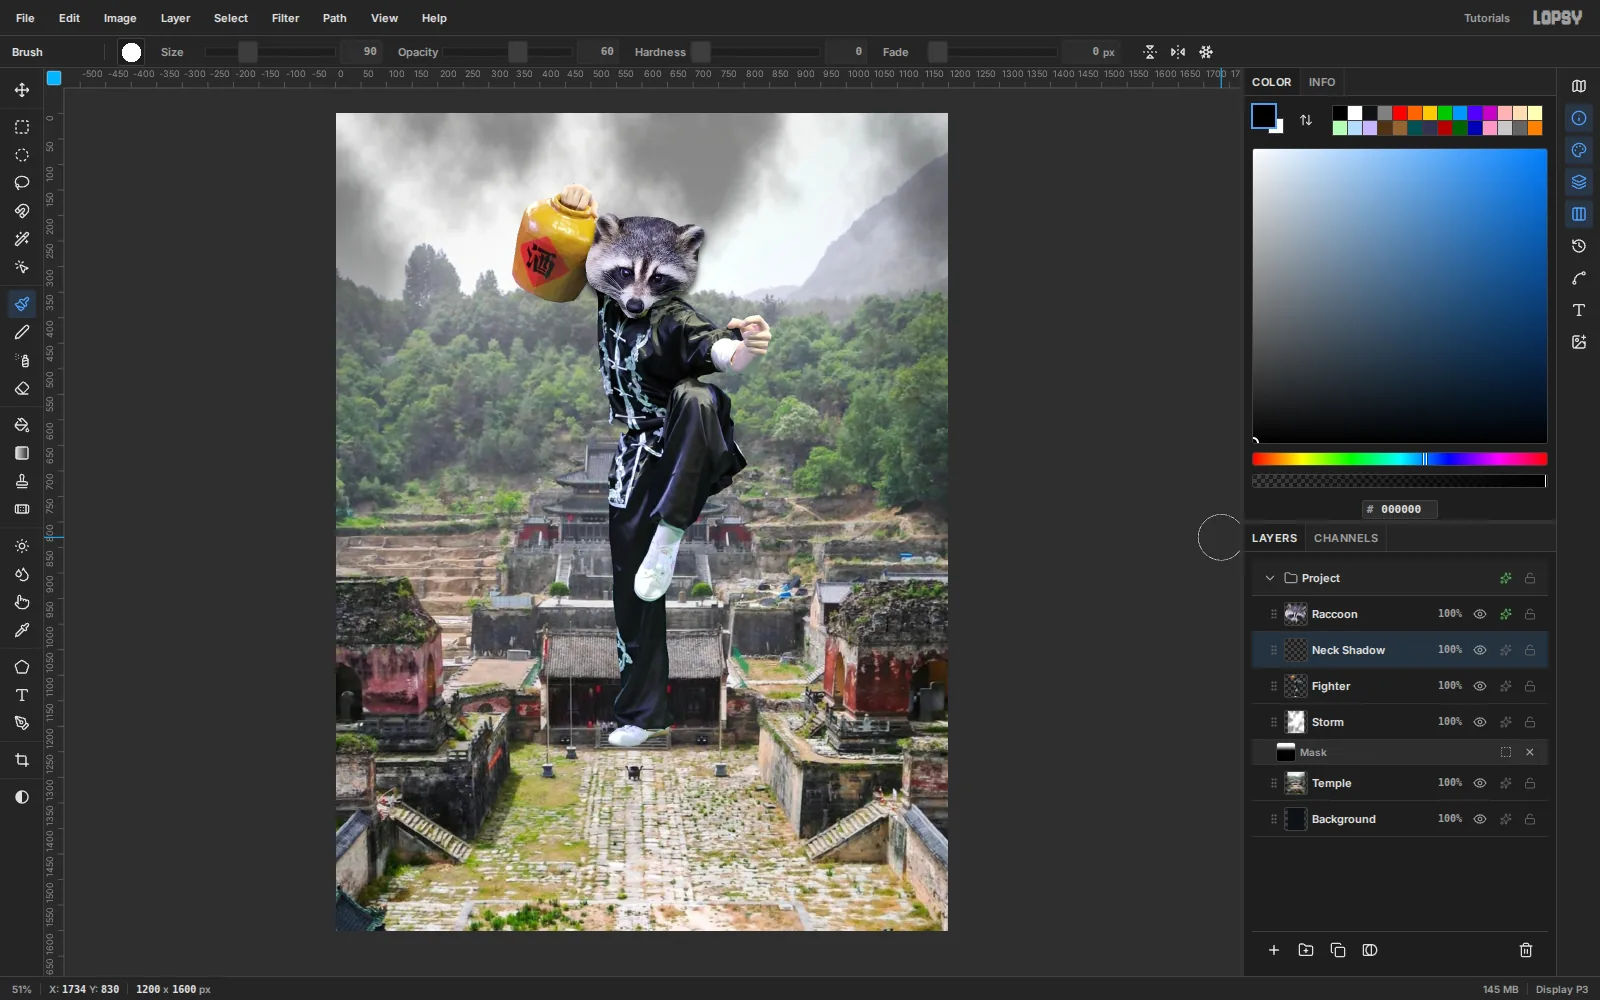
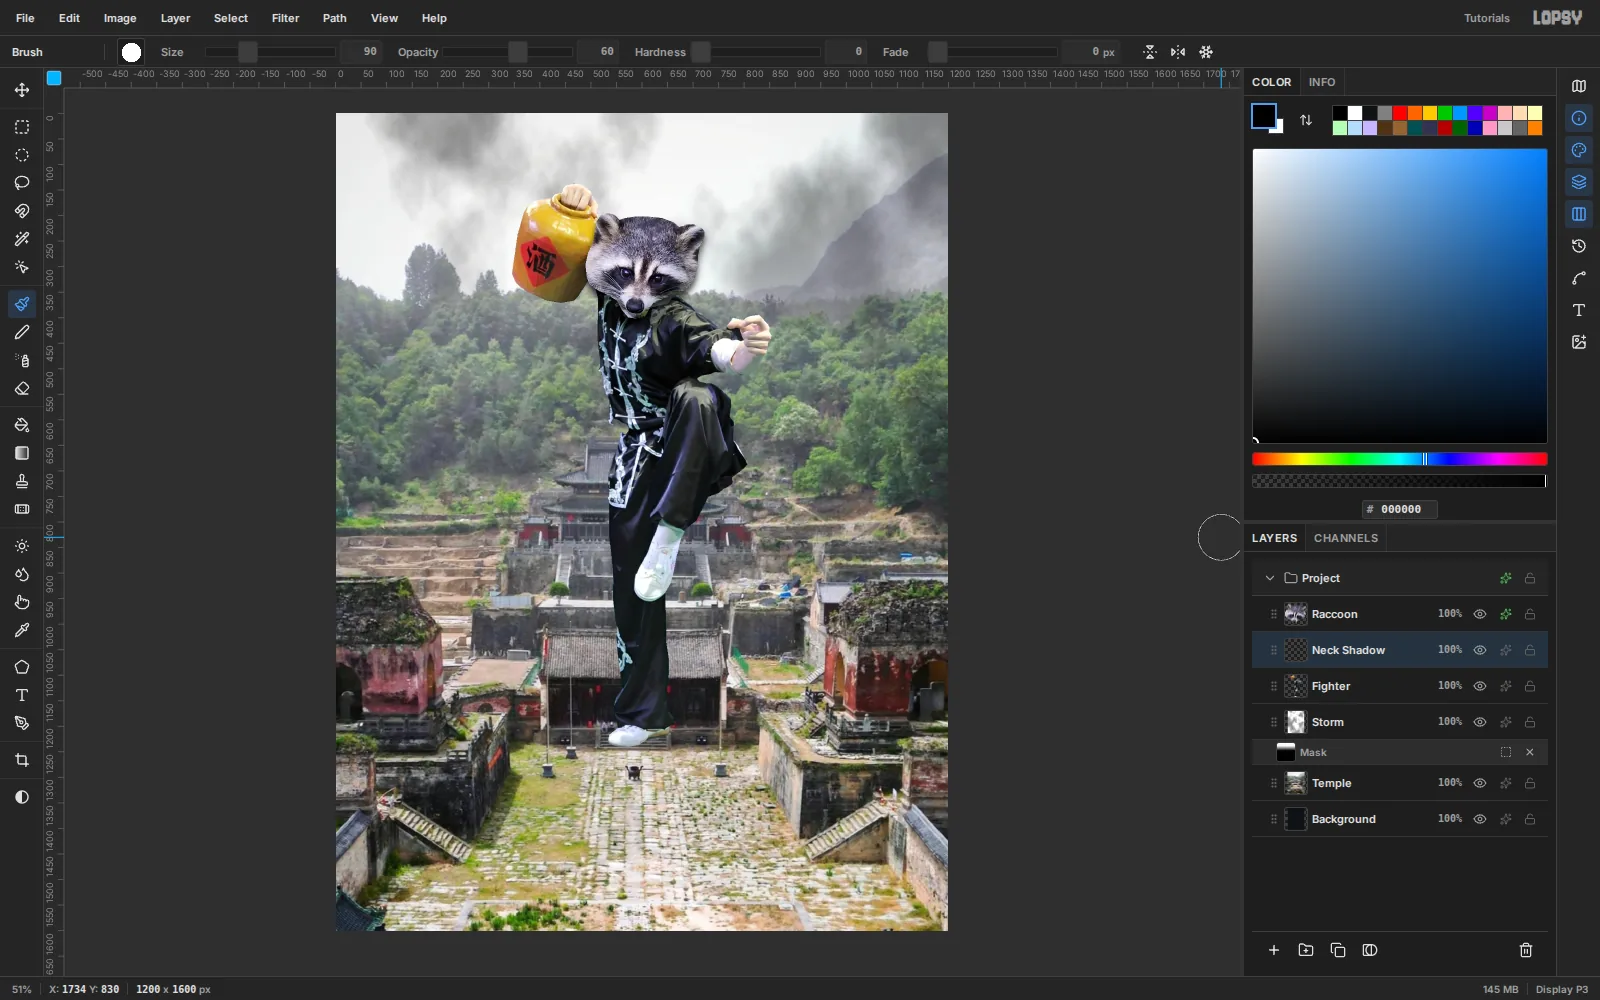
docs(tutorials): keep the fighter's hands, darken only the shoes
The umber hand wraps read worse than the original hands, so the
Multiply step now covers just the white stage trainers. Screenshots
recaptured from a fresh run of composition-masked-monk.spec.ts.

Claude-Session: https://claude.ai/code/session_01MJSNcavAT3JEYCTz3jTjoY

Changed region(s): [[0.1875, 0.093, 0.5938, 0.341], [0.3438, 0.279, 0.375, 0.31]]

diff --git a/e2e/composition-masked-monk.flow.ts b/e2e/composition-masked-monk.flow.ts
@@ -415,30 +415,28 @@ export async function s11(page: Page): Promise<void> {
   await shot(page, '11-mala-beads');
 }
 
-// Skin and white sneakers in the fighter photo's pixels.
-const WRAPS: Record<string, string> = {
-  jarhand: '368,235 368,243 373,243 375,237 383,235 384,246 391,251 407,255 413,259 420,259 421,264 442,265 444,278 458,275 462,279 460,298 466,299 469,294 473,294 478,301 481,301 469,285 469,263 471,258 469,250 461,243 453,224 434,210 422,206 398,210 392,215 386,228 378,229',
-  fist: '871,556 866,549 866,539 863,531 844,510 835,509 818,513 809,520 804,521 782,516 777,520 764,543 747,538 727,546 708,546 704,550 703,556 697,556 688,560 688,567 723,555 724,560 721,562 721,566 732,566 732,578 729,586 729,595 721,596 721,600 728,600 732,613 735,613 739,620 751,631 761,631 764,642 770,645 770,638 772,636 777,636 782,640 795,640 810,632 818,625 828,608 835,606 836,597 849,600 849,604 842,614 842,619 838,626 839,629 845,622 852,604 858,597 863,574 869,565',
+// The white stage trainers in the fighter photo's pixels.
+const SHOES: Record<string, string> = {
   kneeshoe: '662,1001 648,998 647,996 632,996 616,993 613,990 607,991 580,1062 564,1087 559,1101 554,1108 552,1145 559,1157 569,1165 579,1169 597,1170 613,1162 625,1152 626,1146 637,1128 643,1110 658,1035 662,1022 670,1009 670,1006',
   footshoe: '495,1494 505,1501 516,1504 541,1505 561,1501 582,1488 590,1487 588,1486 588,1481 604,1471 633,1468 633,1476 636,1465 635,1457 638,1454 649,1453 645,1439 647,1452 629,1456 623,1461 576,1462 560,1454 545,1451 533,1451 522,1458 518,1458 512,1438 517,1460 495,1479',
 };
 
 export async function s11b(page: Page): Promise<void> {
-  // Human hands and stage-lit trainers give the collage away. A Multiply
-  // layer in dark umber turns them into cloth wraps and black kung fu shoes
-  // while keeping their folds and knuckles.
+  // Stage-lit white trainers are the brightest thing in the lower half. A
+  // Multiply layer in dark umber turns them into black cloth kung fu shoes
+  // while keeping their folds.
   await selectLayer(page, 'Fighter');
-  await newLayer(page, 'Wraps');
+  await newLayer(page, 'Shoes');
   await setFg(page, '#4A4038');
-  for (const outline of Object.values(WRAPS)) {
+  for (const outline of Object.values(SHOES)) {
     await lassoSelect(page, parsePts(outline).map(figPhoto));
     await fill(page);
   }
-  await shot(page, '11a-wraps-fill');
+  await shot(page, '11a-shoes-fill');
   await deselect(page);
   await blendMode(page, 'multiply');
   await closeEffects(page);
-  await shot(page, '11b-wraps');
+  await shot(page, '11b-shoes');
 }
 
 export const HEAD = fig({ x: 606, y: 420 });

diff --git a/tutorials/raccoon-kung-fu-monk-movie-poster/index.md b/tutorials/raccoon-kung-fu-monk-movie-poster/index.md
@@ -9,7 +9,7 @@ related: pulp-sci-fi-movie-flier, vaporwave-venice-poster, ukiyo-e-great-wave-al
 cover: cover.jpg
 coverAlt: Lopsy showing the finished Rise of the Masked Monk poster, a raccoon-headed kung fu monk in a saffron sash standing on stone temple steps under a storm, with the Layers panel listing the title and grain layers
 finished: finished-masked-monk.webp
-finishedAlt: The finished Rise of the Masked Monk poster. A kung fu fighter with a raccoon's head, dark hand wraps, a saffron sash and a string of prayer beads balances on one leg on the steps of a Wudang mountain temple, holding a wine jar. Warm light rays burst from behind his head and sparks drift up around him. The image has a muted teal and amber blockbuster grade. The tagline HE WAS BORN WITH THE MASK sits at the top, and RISE OF THE MASKED MONK, a billing line and COMING SOON sit at the bottom
+finishedAlt: The finished Rise of the Masked Monk poster. A kung fu fighter with a raccoon's head, black cloth shoes, a saffron sash and a string of prayer beads balances on one leg on the steps of a Wudang mountain temple, holding a wine jar. Warm light rays burst from behind his head and sparks drift up around him. The image has a muted teal and amber blockbuster grade. The tagline HE WAS BORN WITH THE MASK sits at the top, and RISE OF THE MASKED MONK, a billing line and COMING SOON sit at the bottom
 ---
 
 This poster is a photo collage of three photos: a raccoon's head on a kung
@@ -203,16 +203,16 @@ Give the layer a pale **Inner Glow** (`#F7C98F`, **Size 5**,
 **Opacity 70**) for a polished highlight, and a tight **Drop Shadow**
 (**X 2**, **Y 4**, **Blur 5**, **Opacity 75**).
 
-## Wrap the hands and shoes
+## Darken the stage shoes
 
-![The fighter's fist, jar hand and white trainers darkened to umber cloth wraps and black shoes](13-wraps.webp)
+![The fighter's white trainers darkened to black cloth kung fu shoes](13-shoes.webp)
 
-Pale human hands and white stage-lit trainers give the collage away. Select
-**Fighter** and add a **Wraps** layer. Set the foreground to `#4A4038`.
-Lasso each hand and each shoe, just inside the edge, and choose
-**Edit → Fill** after each one. Then deselect and set the layer to
-**Multiply**. Multiply keeps the knuckles and folds but turns them dark,
-so the fists read as wrapped and the trainers as black cloth kung fu
+The fighter's white stage trainers are the brightest thing in the lower half
+of the poster, and they pull the eye away from the head. Select **Fighter**
+and add a **Shoes** layer. Set the foreground to `#4A4038`. Lasso each shoe,
+just inside the edge, and choose **Edit → Fill** after each one. Then
+deselect and set the layer to **Multiply**. Multiply keeps the folds and
+seams but turns the trainers dark, so they read as black cloth kung fu
 shoes.
 
 ## Light the hero from behind
@@ -333,7 +333,7 @@ adjustment stack. It already holds four nodes that do nothing yet:
 Leave Curves, Exposure and Hue / Saturation as they are.
 
 > **Tip:** Toggle the eye on each node to compare before and after. If the
-> sash or the wraps go muddy, ease Color Balance before you touch
+> sash or the jar go muddy, ease Color Balance before you touch
 > saturation.
 
 ## Finish with film grain
@@ -346,6 +346,6 @@ layer (**COMING SOON**) and add a **Grain** layer. Fill it with `#808080` and
 run **Add Noise…** with **Amount 28**, **Mono** and **Gaussian**. Set it to
 **Overlay** at **40%**. Export with **File → Quick Export PNG**.
 
-> **Tip:** Save a `.lopsy` project as well. The Wraps, Neck Shadow and
+> **Tip:** Save a `.lopsy` project as well. The Shoes, Neck Shadow and
 > Contact Shadow layers are the ones to revisit if you swap in a different
 > head or body.
